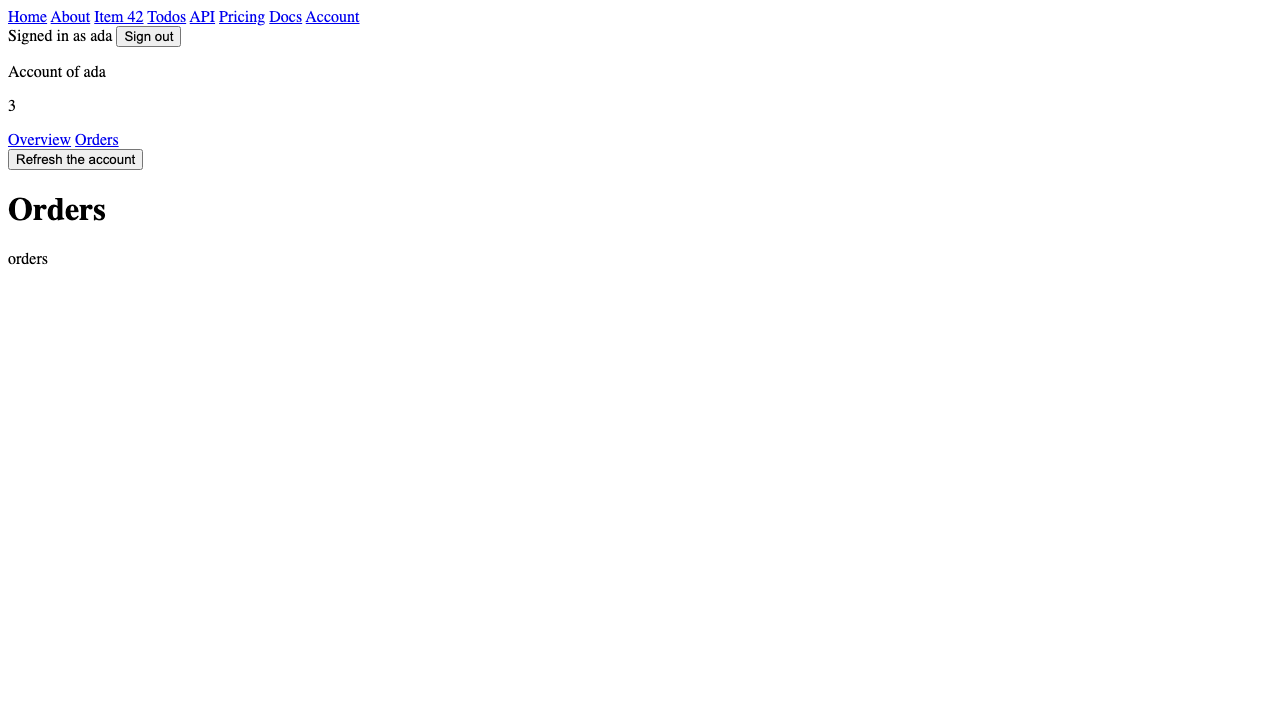
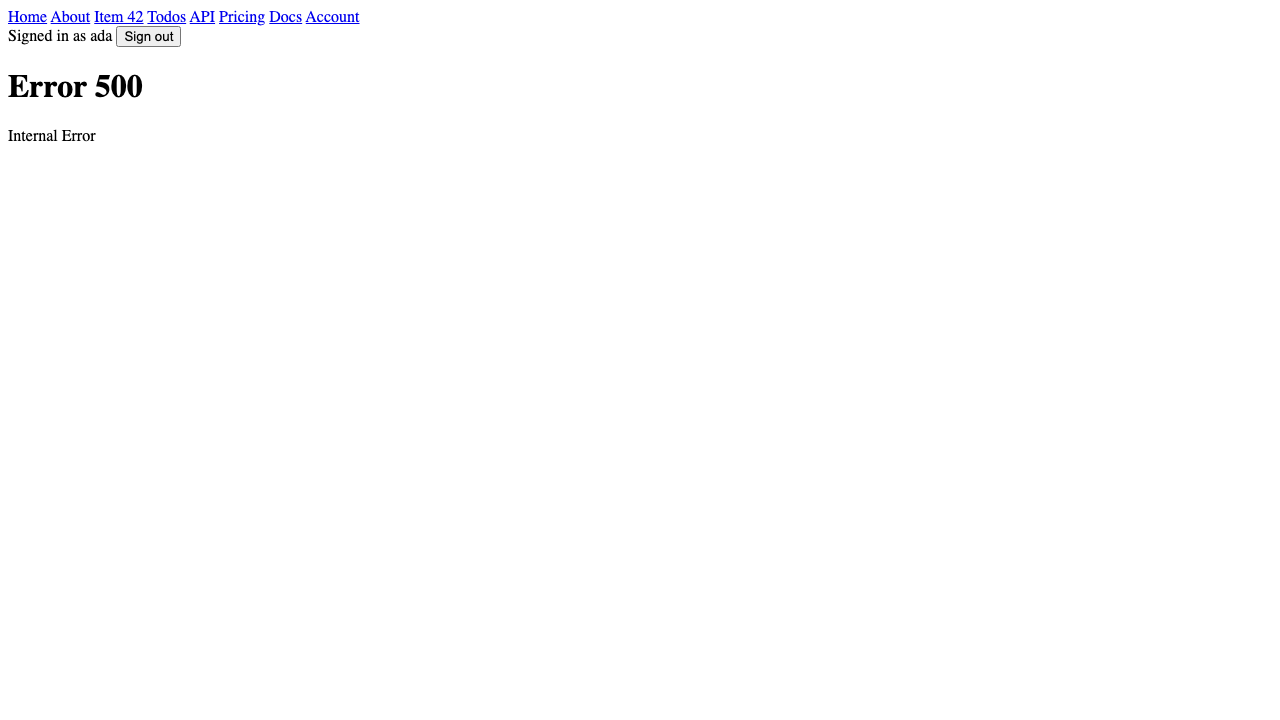
hydrate with the node ids the client bundle uses, not the manifest's

diff --git a/example/e2e/steps/ssr.ts b/example/e2e/steps/ssr.ts
@@ -1,0 +1,148 @@
+import type { Page } from '@playwright/test';
+import { createBdd } from 'playwright-bdd';
+import { expect, test } from './fixtures';
+
+const { When, Then } = createBdd(test);
+
+/**
+ * The bytes the server sent, before a single line of JavaScript ran.
+ *
+ * A page's markup is only proof of server-side rendering if it was in the
+ * response: the same content appears in the DOM a moment later either way, so
+ * asserting on the DOM alone cannot tell a rendered page from a hydrated one.
+ */
+async function documentText(documents: { last: import('@playwright/test').Response | null }) {
+	expect(documents.last, 'no document response was observed').not.toBeNull();
+	return await documents.last!.text();
+}
+
+Then('the document already said {string}', async ({ documents, shot }, text: string) => {
+	expect(await documentText(documents)).toContain(text);
+	await shot();
+});
+
+Then(
+	'the document already said the site is named {string}',
+	async ({ documents, shot }, name: string) => {
+		expect(await documentText(documents)).toContain(`<p data-testid="site-name">${name}</p>`);
+		await shot();
+	}
+);
+
+Then(
+	'the document already said the item is named {string}',
+	async ({ documents, shot }, name: string) => {
+		expect(await documentText(documents)).toContain(`<p data-testid="item-name">${name}</p>`);
+		await shot();
+	}
+);
+
+Then('the document never mentions {string}', async ({ documents, shot }, text: string) => {
+	expect(await documentText(documents)).not.toContain(text);
+	await shot();
+});
+
+// A document with no script is the whole claim of `csr = false`: kit leaves the
+// boot script out, so what arrived is all there will ever be.
+Then('the document carries no script', async ({ documents, page, shot }) => {
+	expect(await documentText(documents)).not.toContain('<script');
+	await expect(page.locator('script')).toHaveCount(0);
+	await shot();
+});
+
+// The other side of the same coin. `ssr = false` means the document is kit's
+// shell: none of the page is in it, and all of it is on screen once the client
+// has booted — which the step after this one asserts, so this is not a claim
+// about a page that simply never rendered.
+Then('the document carried no rendered page', async ({ documents, shot }) => {
+	const html = await documentText(documents);
+	expect(html).not.toContain('data-testid="title"');
+	expect(html).not.toContain('data-testid="site-name"');
+	expect(html, 'the shell still has to boot kit').toContain('kit.start(app, element');
+	await shot();
+});
+
+Then(
+	'exactly {int} remote requests were made since',
+	async ({ page, remotes, shot }, expected: number) => {
+		// A refetch would already be in flight; wait a beat so it lands and can
+		// be counted.
+		await page.waitForTimeout(500);
+		expect(remotes.since, `remote requests: ${remotes.urlsSince.join(', ') || 'none'}`).toBe(
+			expected
+		);
+		await shot('hydrated');
+	}
+);
+
+Then('nothing on the page failed to load', async ({ page, shot }) => {
+	await expect(page.locator('[data-testid$="-failed"]')).toHaveCount(0);
+	await expect(page.getByTestId('app-nav')).toBeVisible({ timeout: 15_000 });
+	await shot();
+});
+
+/** The two documents the concurrency scenario fetched, and their HTML. */
+const concurrent: { pages: Page[]; html: string[] } = { pages: [], html: [] };
+
+When(
+	'{string} and {string} are asked for at the same moment',
+	async ({ browser }, first: string, second: string) => {
+		const contexts = await Promise.all([browser.newContext(), browser.newContext()]);
+		const pages = await Promise.all(contexts.map((context) => context.newPage()));
+		const baseURL = process.env.BASE_URL ?? '';
+
+		// Both navigations are started before either is awaited, so the two
+		// renders are in the server at the same time. On a single shared
+		// runtime the second would overwrite the first's render context and one
+		// of the documents would come back empty or carrying the other's page.
+		const responses = await Promise.all([
+			pages[0].goto(baseURL + first),
+			pages[1].goto(baseURL + second)
+		]);
+
+		concurrent.pages = pages;
+		concurrent.html = await Promise.all(responses.map((response) => response!.text()));
+	}
+);
+
+Then(
+	'the first document says the item is named {string}',
+	async ({ shot }, name: string) => {
+		expect(concurrent.html[0]).toContain(`<p data-testid="item-name">${name}</p>`);
+		await shotOf(concurrent.pages[0], 'first');
+		await shot('first-live');
+	}
+);
+
+Then(
+	'the second document says the item is named {string}',
+	async ({ shot }, name: string) => {
+		expect(concurrent.html[1]).toContain(`<p data-testid="item-name">${name}</p>`);
+		await shotOf(concurrent.pages[1], 'second');
+		await shot('second-live');
+	}
+);
+
+Then("neither document carries the other's item", async ({ shot }) => {
+	const names = concurrent.html.map((html) => {
+		const match = /<p data-testid="item-name">([^<]*)<\/p>/.exec(html);
+		expect(match, 'a document carried no item at all').not.toBeNull();
+		return match![1];
+	});
+	expect(names[0]).not.toEqual(names[1]);
+	for (const [i, html] of concurrent.html.entries()) {
+		expect(html).not.toContain(`>${names[1 - i]}</p>`);
+	}
+	await shot('distinct');
+	for (const page of concurrent.pages) await page.context().close();
+	concurrent.pages = [];
+});
+
+/** Photographs one of the concurrency scenario's own pages. */
+async function shotOf(page: Page, name: string) {
+	const mode = process.env.EXPECTED_MODE ?? 'unknown';
+	await page.screenshot({
+		path: `../../ephemeral/screenshots/ssr/${mode}/two-pages-at-once-${name}.png`,
+		fullPage: true
+	});
+}

diff --git a/example/web/skgo-adapter.js b/example/web/skgo-adapter.js
@@ -354,6 +354,7 @@ async function readNodes(builder, source, kit) {
 		}
 
 		nodes.push({
+			index,
 			server: module.server_id ?? '',
 			component: module.component ? componentSource(file, dir) : null,
 			imports: module.imports ?? [],
@@ -369,6 +370,7 @@ async function readNodes(builder, source, kit) {
 
 /**
  * @typedef {{
+ *   index: number,
  *   server: string,
  *   component: string | null,
  *   imports: string[],
@@ -461,6 +463,13 @@ function describeSSR(builder, kit, nodes) {
 			usesEnvDynamicPublic: !!client.uses_env_dynamic_public
 		},
 		nodes: nodes.map((node) => ({
+			// The index the node's own module declares, which is *not* its
+			// position in this array: kit renumbers the nodes it puts in a
+			// manifest and keeps the original numbering in the client bundle.
+			// The boot script's `node_ids` are the original ones, and a
+			// document carrying the manifest's positions instead hydrates the
+			// wrong components — silently, because they are valid indices.
+			index: node.index,
 			component: !!node.component,
 			ssr: node.ssr,
 			csr: node.csr,

diff --git a/internal/newapp/template/web/skgo-adapter.js b/internal/newapp/template/web/skgo-adapter.js
@@ -354,6 +354,7 @@ async function readNodes(builder, source, kit) {
 		}
 
 		nodes.push({
+			index,
 			server: module.server_id ?? '',
 			component: module.component ? componentSource(file, dir) : null,
 			imports: module.imports ?? [],
@@ -369,6 +370,7 @@ async function readNodes(builder, source, kit) {
 
 /**
  * @typedef {{
+ *   index: number,
  *   server: string,
  *   component: string | null,
  *   imports: string[],
@@ -461,6 +463,13 @@ function describeSSR(builder, kit, nodes) {
 			usesEnvDynamicPublic: !!client.uses_env_dynamic_public
 		},
 		nodes: nodes.map((node) => ({
+			// The index the node's own module declares, which is *not* its
+			// position in this array: kit renumbers the nodes it puts in a
+			// manifest and keeps the original numbering in the client bundle.
+			// The boot script's `node_ids` are the original ones, and a
+			// document carrying the manifest's positions instead hydrates the
+			// wrong components — silently, because they are valid indices.
+			index: node.index,
 			component: !!node.component,
 			ssr: node.ssr,
 			csr: node.csr,

diff --git a/document_assemble.go b/document_assemble.go
@@ -124,8 +124,18 @@ func (s *SSR) bootScript(baseExpression string, prefixed func(string) string, in
 	if err != nil {
 		return "", err
 	}
+	// `node_ids` are the numbers the client's own node table uses, which are
+	// the ones each node module declares rather than its position in the
+	// manifest. Kit renumbers a manifest's nodes and the client bundle is not
+	// renumbered with it, so a document carrying manifest positions hydrates
+	// whichever pages happen to live at those numbers.
+	nodeIDs := make([]int, len(indices))
+	for i, index := range indices {
+		nodeIDs[i] = s.info.Nodes[index].Index
+	}
+
 	arguments := []string{"element", indent6("{\n\t" + strings.Join([]string{
-		"node_ids: [" + join(indices, ", ") + "]",
+		"node_ids: [" + join(nodeIDs, ", ") + "]",
 		"data: " + hydration,
 		"form: null",
 		"error: null",

diff --git a/static.go b/static.go
@@ -108,6 +108,14 @@ type ManifestFont struct {
 
 // ManifestSSRNode is one node's contribution to a document.
 type ManifestSSRNode struct {
+	// Index is the number the node's own module declares, which is not its
+	// position in this array. Kit renumbers the nodes it writes into a
+	// manifest — a prerendered page's node is dropped and every later one
+	// shifts down — and keeps the original numbering in the client bundle. The
+	// boot script's `node_ids` are the original numbers, so a document built
+	// from the manifest's positions hydrates the wrong components, silently,
+	// because they are valid indices for other pages.
+	Index int `json:"index"`
 	// Component reports that kit compiled a component for this node. Kit omits
 	// one for a node that will never be server-rendered.
 	Component bool `json:"component"`

diff --git a/ephemeral/worklog/202609061930-ssr-in-process.md b/ephemeral/worklog/202609061930-ssr-in-process.md
@@ -1,0 +1,111 @@
+# SSR in the Go process — slices 1 and 2
+
+Branch `claude/ssr-no-node-sidecar-9e3be4`. What follows changes decisions; it
+is not a summary of the diff.
+
+## Kit's own build output cannot be bundled, and this is why
+
+The obvious move — bundle `.svelte-kit/output/server/entries/**` instead of
+recompiling the app's `.svelte` files — does not work, and the reason is worth
+writing down because it looks like it should.
+
+Kit's server build has already baked the generated stub into each remote
+function: `chunks/site.remote.js` holds `query(() => unimplemented())`, and the
+user function is captured in a closure that `fn.__` does not expose. There is no
+runtime hook to swap it. Redirecting the import instead fails on the other side:
+rolldown mangles the chunk's exports (`export { site_remote_exports as n,
+getSite as t }`), so nothing can be re-exported by name.
+
+So the substitution has to happen at the module specifier: `$app/server` is
+aliased to a shim that keeps kit's real `query`/`command`/`form` wrappers and
+replaces only the body. That forces bundling from source, which forces
+recompiling `.svelte` with the app's own Svelte compiler in `generate: 'server'`
+mode — which is what the adapter now does.
+
+Changing what `skgo generate` emits — a stub that calls Go instead of throwing —
+would let kit's own output be used verbatim. It would also destroy the one proof
+the project has that Go answered.
+
+## A remote answer must not round-trip through the engine
+
+The spike collected `state.remote.implicit` inside the bundle and handed the
+settled values back to Go for `__sveltekit.data`. Go already has those values:
+it answered every call. The engine reports `{head, body}` and nothing else, and
+Go builds the payload from the calls it answered, keyed `<kind>/<id>/<payload>`
+from its own registry. That also makes kit's "omit an entry with neither `v` nor
+`e`" rule automatic — an unanswered call is simply not in the map.
+
+## Server-rendering the session means the app can no longer prerender
+
+`<SignIn />` in the root layout awaits a remote query. Move it out of its
+pending boundary — which slice 1 requires, or every page refetches the session
+on hydration — and `/about` stops prerendering, because a prerendered page's
+branch includes the root layout and kit refuses `query()` while prerendering.
+
+Kit's own answer is `building` from `$app/env`: the layout renders the session
+only when there is a visitor. `/about` still prerenders, shows no session in the
+file the build wrote, and picks one up when it hydrates. Without that guard the
+build fails with "Cannot call query while prerendering", which reads like a
+skgo bug and is not one.
+
+Anything that adds per-request data to a root layout hits this. It is kit's
+rule, not a gap here.
+
+## The engine needs four web globals, not three
+
+The spike found `TextEncoder`/`TextDecoder`, `btoa`/`atob` and `URL`. Two more
+turned up the moment a page with a form was rendered, and both are reached from
+kit's own code rather than the app's:
+
+- `URLSearchParams` must be **mutable**. `form.action`'s getter does
+  `new URLSearchParams(url.search)` and then `.delete('/remote')`. A read-only
+  parser gets "Object has no member 'delete'" from inside a component.
+- `File` (and therefore `Blob`) must merely **exist**. Kit's form-field proxy
+  asks `value instanceof File` before it describes a file input. Nothing ever
+  holds one — an upload's bytes are Go's — but the identifier has to resolve.
+
+Both failures surface as a render that throws, so the page silently falls back
+to the shell rather than breaking. `TestEveryRouteInTheManifestIsServed` is what
+caught them; a suite that only visits the pages it has scenarios for would not
+have.
+
+## Deferred load values are awaited, so nothing streams yet
+
+`skgo.Async` still works, but its value is settled before the render starts, so
+a component sees the value rather than a promise and `{#await}` renders its
+`:then` branch immediately. Kit streams these as `${global}.resolve(id, ...)`
+chunks after the document; that is slice 5 work and nothing here does it.
+
+The visible consequence: `/account/orders` no longer shows `orders-pending`, and
+the loads scenario that asserted "the fast content is on screen before the slow
+content arrives" now asserts that both arrive in the same document.
+
+## A page whose load fails still gets the shell
+
+The renderer declines a branch with an error node, and the client renders
+`+error.svelte` off `__data.json` exactly as it did before SSR existed. That is
+the error branch (slice 3), deliberately not built here.
+`TestEveryRouteInTheManifestIsServed` allows the shell **only** for a route
+whose `__data.json` really is an error, so a page that quietly stops rendering
+is still a failure.
+
+## esbuild's install script has to be turned off, not ignored
+
+pnpm 11 refuses to run an unapproved install script and exits non-zero, which
+kills `mise run build` in a fresh scaffold with a message about
+`pnpm approve-builds`. `allowBuilds: { esbuild: false }` in
+`pnpm-workspace.yaml` is the fix: esbuild's platform binary arrives as an
+optional dependency and its install script has nothing left to do.
+
+## The adapter is one file and svelte-check reads it
+
+`skgo-adapter.js` is type-checked by `pnpm check` through the app's tsconfig, so
+its JSDoc has to be right or `go test ./example/...` fails with TypeScript
+errors in a file nobody thinks of as TypeScript. The glue the SSR bundle needs
+(the entry, the `$app/server` shim, the polyfills) lives in that same file as
+`String.raw` template constants, because the adapter is mirrored byte-for-byte
+into the scaffold template and one file is one thing to keep in sync.
+
+Two traps in those constants, both of which produce a parse error a hundred
+lines from the edit: a backtick anywhere inside them (including in a comment)
+ends the template, and a `${` inside them interpolates.
